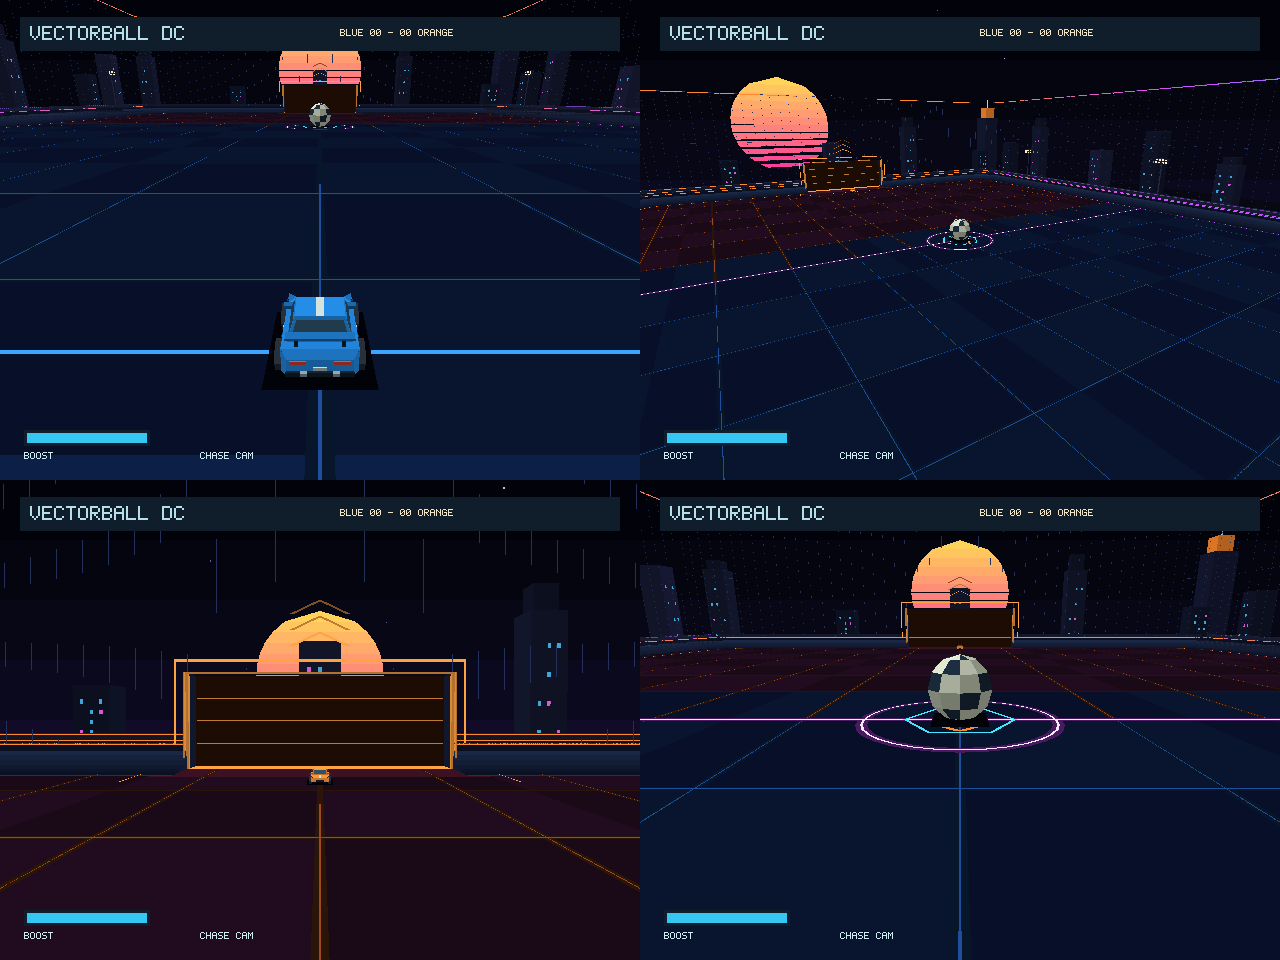
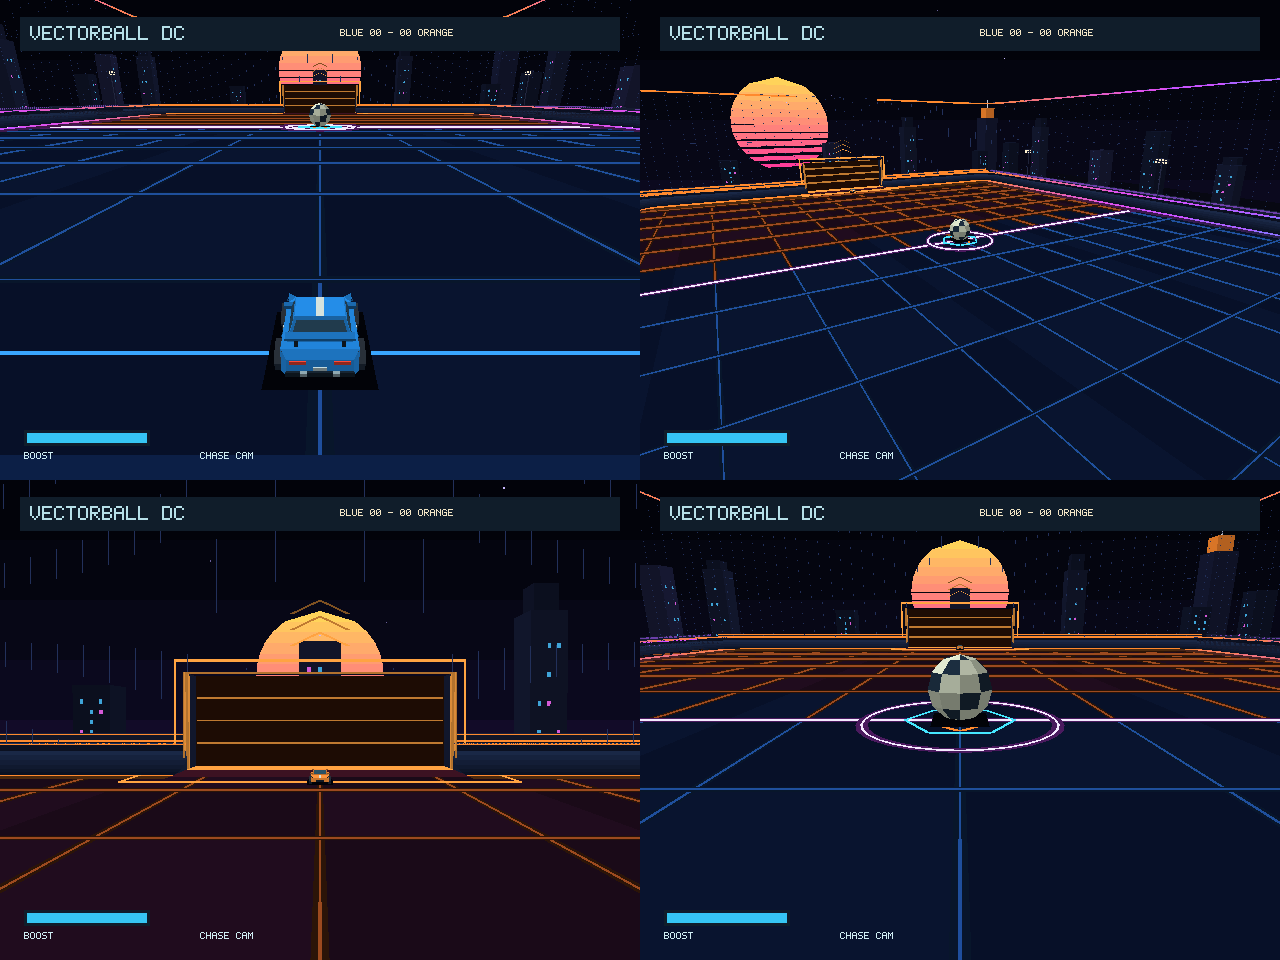
Handoff for the neon arena and next arena themes; add line-width, versus-hash and arena-preview checks
Claude-Session: https://claude.ai/code/session_01BxpQXHpdUiRQkvTyAn2ubh

diff --git a/tests/arena_views.c b/tests/arena_views.c
@@ -1,0 +1,28 @@
+/* Arena preview renders through the real renderer, with a reference rasteriser
+   that honours the depth-ALWAYS floor-marking pass like the PVR does.
+   Usage: arena_views <output dir>  -> kickoff/overview/goal/side/center/low/split .ppm
+   Host software output only: no anti-aliasing, not Dreamcast colours/filtering or FPS. */
+#define main reference_snapshot_main
+#define ARENA_VIEWS_DEPTH_ALWAYS
+#include "snapshot.c"
+#undef main
+#include "match.h"
+static void save(const char *path){FILE *f=fopen(path,"wb");fprintf(f,"P6\n640 480\n255\n");fwrite(rgb,1,sizeof(rgb),f);fclose(f);}
+static void clear(void){int x,y;for(y=0;y<480;y++)for(x=0;x<640;x++){rgb[y][x][0]=6;rgb[y][x][1]=9;rgb[y][x][2]=19;depth[y][x]=0;}count=0;}
+static void look(Camera *c,Vec3 eye,Vec3 at){c->eye=eye;c->forward=unit((Vec3){at.x-eye.x,at.y-eye.y,at.z-eye.z});c->right=unit((Vec3){c->forward.z,0,-c->forward.x});
+    c->up=(Vec3){c->forward.y*c->right.z,-c->forward.x*c->right.z+c->forward.z*c->right.x,-c->forward.y*c->right.x};c->initialized=1;c->focal=390;}
+int main(int argc,char **argv){
+    Game g;Camera cam={0};char path[512];const char *dir=argv[1];
+    game_init(&g);
+    clear();camera_update(&cam,&g,0,0,1);render_frame(&g,&cam,0,0);snprintf(path,512,"%s/kickoff.ppm",dir);save(path);fprintf(stderr,"kickoff %d\n",count);
+    clear();look(&cam,(Vec3){-62,34,-100},(Vec3){0,0,0});render_frame(&g,&cam,0,0);snprintf(path,512,"%s/overview.ppm",dir);save(path);fprintf(stderr,"overview %d\n",count);
+    clear();look(&cam,(Vec3){0,9,60},(Vec3){0,8,ARENA_Z});render_frame(&g,&cam,0,0);snprintf(path,512,"%s/goal.ppm",dir);save(path);fprintf(stderr,"goal %d\n",count);
+    clear();look(&cam,(Vec3){-20,6,-20},(Vec3){ARENA_X,4,30});render_frame(&g,&cam,0,0);snprintf(path,512,"%s/side.ppm",dir);save(path);fprintf(stderr,"side %d\n",count);
+    clear();look(&cam,(Vec3){0,10,-40},(Vec3){0,0,0});render_frame(&g,&cam,0,0);snprintf(path,512,"%s/center.ppm",dir);save(path);fprintf(stderr,"center %d\n",count);
+    {Game h;game_init(&h);h.car=(Vec3){ARENA_X-14,0,-ARENA_Z*.5f};h.heading=.6f;h.cpu=(Vec3){ARENA_X-24,0,-ARENA_Z*.5f+6};h.ball=(Vec3){ARENA_X-9,BALL_R,-ARENA_Z*.5f+9};
+     clear();look(&cam,(Vec3){ARENA_X-30,2.2f,-ARENA_Z*.5f-14},(Vec3){ARENA_X-8,1,-ARENA_Z*.5f+6});render_frame(&h,&cam,0,0);snprintf(path,512,"%s/low.ppm",dir);save(path);fprintf(stderr,"low %d\n",count);}
+    {Match m;Camera cams[2]={0};int modes[2]={0,0};match_init(&m);game_init(&g);
+     camera_update_player(&cams[0],&g,0,0,STEP,1);camera_update_player(&cams[1],&g,1,0,STEP,1);
+     clear();render_split_frame(&g,cams,&m,modes,0,0);snprintf(path,512,"%s/split.ppm",dir);save(path);fprintf(stderr,"split %d\n",count);}
+    (void)argc;return 0;
+}

diff --git a/tests/neon_width_test.c b/tests/neon_width_test.c
@@ -1,0 +1,31 @@
+/* Neon arena: thin lines must stay visible at any distance. The PVR has no
+   anti-aliasing, so a strip thinner than a pixel blinks in and out. Over many
+   cameras, every distance-widened strip piece must be >=1.2 px thick at its
+   middle (target 1.6 px at its ends). Build with -DNEON_WIDTH_CHECK. */
+#include "render.h"
+#include <stdio.h>
+#include <math.h>
+#include <assert.h>
+static int checked,thin;static float thinnest=1e9f;
+void backend_triangle(Screen a,Screen b,Screen c,uint32_t col){(void)a;(void)b;(void)c;(void)col;}
+void neon_width_check(float depth,float needed,float drawn,float base){
+    float px;
+    if(depth<=1||needed<=base*1.01f)return;   /* near plane, or design width already enough */
+    px=1.6f*drawn/needed;checked++;if(px<thinnest)thinnest=px;if(px<1.2f)thin++;
+}
+static Vec3 unit(Vec3 a){float l=sqrtf(a.x*a.x+a.y*a.y+a.z*a.z);return (Vec3){a.x/l,a.y/l,a.z/l};}
+int main(void){
+    Game g;Camera c={0};int i;game_init(&g);
+    for(i=0;i<2000;i++){
+        float ang=i*.37f,rad=5+(i%11)*9.0f;
+        c.eye=(Vec3){sinf(ang)*rad*.85f,1.2f+(i%7)*3.5f,cosf(ang)*rad*1.1f};
+        c.forward=unit((Vec3){-sinf(ang*1.7f)*40-c.eye.x*.2f,-c.eye.y*(.2f+(i%3)*.3f),-cosf(ang*1.7f)*40-c.eye.z*.2f});
+        c.right=unit((Vec3){c.forward.z,0,-c.forward.x});
+        c.up=(Vec3){c.forward.y*c.right.z,-c.forward.x*c.right.z+c.forward.z*c.right.x,-c.forward.y*c.right.x};
+        c.initialized=1;c.focal=390;
+        render_frame(&g,&c,0,0);
+    }
+    assert(checked>100000&&thin==0&&thinnest>=1.2f);
+    printf("PASS: neon line width, %d widened pieces over 2000 cameras, thinnest %.2f px at mid-piece\n",checked,thinnest);
+    return 0;
+}

diff --git a/tests/versus_hash.c b/tests/versus_hash.c
@@ -1,0 +1,25 @@
+/* Versus must stay exactly as accepted (34-39 FPS on hardware). Prints a hash of
+   every triangle (screen position, depth, colour) the split renderer submits over
+   varied layouts. Compare against the value recorded in HANDOFF.md, or against a
+   build of the previous render.c, after any render change. Also fails if any
+   versus triangle uses the single-screen depth-ALWAYS marking pass. */
+#include "render.h"
+#include <stdio.h>
+static unsigned long long h=1469598103934665603ULL;static unsigned n,flagged;
+static void mixb(const void *p,size_t k){const unsigned char *b=p;while(k--){h^=*b++;h*=1099511628211ULL;}}
+void backend_triangle(Screen a,Screen b,Screen c,uint32_t col){if(render_depth_always)flagged++;mixb(&a,sizeof a);mixb(&b,sizeof b);mixb(&c,sizeof c);mixb(&col,sizeof col);n++;}
+int main(void){
+    Game g;Match m;Camera cams[2]={0};int modes[2]={0},i;
+    game_init(&g);match_init(&m);
+    for(i=0;i<400;i++){
+        int s=i%8;
+        g.car=(Vec3){s==1?ARENA_X-10:(s-4)*9.0f,s==2?12:0,s==3?ARENA_Z-14:-SPAWN_Z+s*20};g.heading=s*.8f;
+        g.cpu=(Vec3){s==1?-ARENA_X+10:4-s*7.0f,s==5?8:0,SPAWN_Z-s*15};g.cpu_heading=3.14159265f-s*.5f;
+        g.ball=(Vec3){s*5.0f-15,s==2?24:BALL_R,(s-3)*12.0f};modes[0]=s%2;modes[1]=(s/2)%2;
+        camera_update_player(&cams[0],&g,0,modes[0],STEP,1);camera_update_player(&cams[1],&g,1,modes[1],STEP,1);
+        render_split_frame(&g,cams,&m,modes,0,0);render_split_fps(37);
+        if(s==6)render_split_frame(&g,cams,&m,modes,1,0);
+    }
+    printf("versus: %u triangles, hash %016llx, depth-always %u\n",n,h,flagged);
+    return flagged?1:0;
+}

diff --git a/src/render.c b/src/render.c
@@ -214,6 +214,10 @@ static float neon_width(Vec3 p,Vec3 t,Vec3 n,float base){
    its ends give (up to three levels, so extra pieces appear only near the
    camera). An optional dim halo (at least 2.4x the core) is drawn first. */
 #define NEON_MAX_PIECES 48
+#ifdef NEON_WIDTH_CHECK
+/* Host-only hook (tests/neon_width_test.c): view depth, needed and drawn width at each piece's middle. */
+void neon_width_check(float depth,float needed,float drawn,float base);
+#endif
 static void neon_strip(Vec3 a,Vec3 b,Vec3 n,float base,int centred,int pieces,uint32_t col,float halo_base,uint32_t halo_col){
     Vec3 pt[NEON_MAX_PIECES+1];float w[NEON_MAX_PIECES+1];unsigned char level[NEON_MAX_PIECES+1];int count=0,j,pass;
     Vec3 t=norm(sub(b,a));
@@ -229,6 +233,9 @@ static void neon_strip(Vec3 a,Vec3 b,Vec3 n,float base,int centred,int pieces,ui
     }
     for(pass=halo_base>0?0:1;pass<2;pass++)for(j=0;j+1<count;j++){
         float w0=w[j],w1=w[j+1];
+#ifdef NEON_WIDTH_CHECK
+        if(pass)neon_width_check(view(mul(add(pt[j],pt[j+1]),.5f)).z,neon_width(mul(add(pt[j],pt[j+1]),.5f),t,n,base),(w0+w1)*.5f,base);
+#endif
         if(!pass){w0=fmaxf(halo_base,w0*2.4f);w1=fmaxf(halo_base,w1*2.4f);}
         {float lo0=centred?-w0*.5f:0,hi0=centred?w0*.5f:w0,lo1=centred?-w1*.5f:0,hi1=centred?w1*.5f:w1;
             quad(add(pt[j],mul(n,lo0)),add(pt[j+1],mul(n,lo1)),add(pt[j+1],mul(n,hi1)),add(pt[j],mul(n,hi0)),pass?col:halo_col);}

diff --git a/tests/snapshot.c b/tests/snapshot.c
@@ -30,7 +30,11 @@ void backend_triangle(Screen a,Screen b,Screen c,uint32_t col){
     for(y=y0;y<=y1;y++)for(x=x0;x<=x1;x++){
         float u=edge(b,c,x+.5f,y+.5f)/area,w=edge(a,b,x+.5f,y+.5f)/area,t=1-u-w;
         float z=u*a.z+t*b.z+w*c.z;
+#ifdef ARENA_VIEWS_DEPTH_ALWAYS
+        if(u>=0&&t>=0&&w>=0&&(render_depth_always||z>=depth[y][x])){ /* PVR depth-ALWAYS marking pass */
+#else
         if(u>=0&&t>=0&&w>=0&&z>=depth[y][x]){
+#endif
             depth[y][x]=z;rgb[y][x][0]=(col>>16)&255;rgb[y][x][1]=(col>>8)&255;rgb[y][x][2]=col&255;
         }
     }

diff --git a/HANDOFF.md b/HANDOFF.md
@@ -1,47 +1,71 @@
-# Resume here — neon line dropout fix, October 23, 2026
+# Resume here — neon vector arena accepted on hardware; next: more arena themes (October 23, 2026)
 
-After the depth-ALWAYS fix the user still saw lines blink: distant lines invisible until they drove closer, then on/off (hardware screenshots show dotted far lines). Not z-fighting this time: the lines were 0.10–0.35 units wide, i.e. thinner than a pixel at distance, and the PVR (no anti-aliasing) only fills pixels whose centres a triangle covers, so sub-pixel strips drop in and out as the camera moves.
+## Status
 
-- `neon_width(p,t,n,base)` returns the width needed for the strip to be NEON_MIN_PIXELS (1.6) thick on screen: it projects p, p+n*e and p+t*e and measures the across-strip pixel distance perpendicular to the strip's own screen direction (a 3D angle estimate was tried first and gave only 1.0 px off-centre). Never below the design width; capped at NEON_MAX_WIDTH 6.
-- `neon_strip()` draws a line as tapered pieces with per-end widths, adaptively halving any piece whose midpoint needs >12% more width than its ends give (max 3 levels, max 48 pieces). `neon_ring()` does the same for the centre ring. Halo = max(design halo, 2.4x core).
-- Applied to everything thin in the single-screen dress: grid, midfield line, centre ring and hexagon, goal-area lines and goal lines, bank toe lines, wall neon band and top rail, net slats, end-wall goal frames, terrace lips. Chevrons and filled shapes were already wide enough.
-- Check (scratch harness, render.c instrumented): 2,000 random cameras, 290,274 widened pieces; thinnest mid-piece 1.22 px, none below 1.2 px. Before adaptive splitting 0.30% fell below 1.2 px (thinnest 0.81).
-- Triangles: single-screen kickoff 5911 (was 5649 with fixed-width lines; original grass arena 5016), 702 in the depth-ALWAYS run; corner snapshot 2666. Versus hash fixture unchanged (1,341,200 triangles, same hash, 0 flagged). Full suite 33 PASS.
-- Hardware confirmation pending.
+- Branch `neon-arena` (pushed to origin). Not merged into `main` yet: merge it, or keep working on it, at the start of the next session (ask the user). `main` = v0.32 wall-slide build.
+- **Accepted on real hardware** by the user: "looks great now, works nice on real hardware too. Didn't notice any fps [drop]" (single screen). Versus was deliberately left untouched (see constraints).
+- Render-only work: `src/render.c` (plus a small header switch in `src/main.c`). No gameplay, physics, collision, camera, HUD, menu or audio changes.
 
----
+## Next: more arena themes (user wants these in the next chat)
 
-# Resume here — neon arena floor-line flicker fix, October 23, 2026
+The user picked "Neon vector arena" from three proposed looks and now wants the other two as well:
 
-User built the neon-arena branch and likes the arena, but the floor lines flickered quite a bit on hardware (z-fighting: strips only .018–.06 above the floor, reciprocal depth at grazing distance). Fix by draw order rather than larger height offsets:
+1. **Night stadium**: keep a grass pitch but make it a big event: striped mowing, team-coloured ends, LED ad boards along the walls, crowd stands with lights, light towers.
+2. **Futuristic outdoor**: daytime or sunset sky, a rooftop arena over a city or a desert with mountains, metal wall panels and painted markings.
 
-- Single screen only: straight after the floor tiles, every floor marking (grid, goal-area tints and outlines, goal lines, midfield line, centre ring/hexagon/chevrons, bank toe lines, car/ball shadows) is drawn in one run with `render_depth_always=1`. Then banks, walls, goals, cars, ball and effects draw with the normal header and still depth-test against the markings, so they cover them.
-- `main.c` compiles a second opaque header (`decal_header`, `PVR_DEPTHCMP_ALWAYS`, depth write on) and `backend_triangle` switches headers only when the flag changes (resets to the normal header each frame). Same OP list, so no extra list or bin config. The opaque list is processed in submission order, so depth-ALWAYS markings simply paint over the tiles.
-- Safe because the camera stays inside the convex arena footprint: no environment geometry drawn before the floor can sit in front of a floor marking. The goal floor rect inside each goal stays in the normal pass (nothing beneath it to fight).
-- Versus: flag never set; the 400-frame split hash fixture still gives 1,341,200 triangles, identical hash, 0 flagged triangles. Host test stubs gained `render_depth_always` (three loop tests that replace render.c) and `depth`/`PVR_DEPTHCMP_ALWAYS` in tests/title_stubs/dc/pvr.h. Full suite passes (33 PASS lines); kickoff 5649 triangles, 538 of them in the depth-always run.
-- Host renders with a reference rasteriser that honours depth-ALWAYS for flagged triangles show correct layering (cars/ball/banks/goals over markings). Hardware confirmation of the flicker fix still needed.
+Questions to settle with the user before or while building (ask; do not assume):
+- How an arena is chosen: a menu option before a match, rotating per match, random, or per mode. Keep menus clear and short (AGENTS.md).
+- Whether the original plain grass arena stays as an option.
+- Whether versus gets a theme at all. Default: **no**. Versus keeps the exact accepted arena unless the user explicitly asks; any versus change must keep the split triangle count at or below today's.
 
----
+Suggested structure: pull the single-screen dress into a theme layer, e.g. an `ArenaTheme` struct (sky gradient, pitch colours, bank colours, accent/neon colours, environment and decoration callbacks), selected by a value carried from the frontend (store it outside `Game` if possible, so `Game` layout and gameplay comparisons stay unchanged). Keep the shared arena geometry (`arena_edge`, `arena_bank_vertex`, goals) and only vary colours and decorations. Build one theme at a time and show the user host previews (`tests/arena_views.c`) before a hardware build.
 
-# Resume here — neon vector arena (single screen), October 23, 2026
+## Constraints (keep)
 
-User asked to spice up the generic test arena and chose a "neon vector arena" look. Mid-task they added: **leave the versus (split-screen) arena as is — it runs 34–39 FPS on hardware.** So every change is single-screen only (`viewport_height==480`); split views take the exact previous code paths and colours.
+- **Versus/split screen must stay as is**: it runs 34–39 FPS on hardware. Every neon change is inside `viewport_height==480` branches; split views take the previous code paths, colours and submission order. Check with `tests/versus_hash.c`: it must print `1341200 triangles, hash 4feeeda6e297f213, depth-always 0` (host gcc; if the toolchain differs, compare against a build of the previous `render.c` instead).
+- One opaque PVR list, flat vertex colours, no textures, no translucency. Glow = bright thin core strip over a wider dim halo strip.
+- Single-screen budget: kickoff snapshot was 5016 triangles (grass) and is 5911 now; the user saw no FPS drop at 5911. Report the count for any new theme; keep new themes in the same range.
+- Draw floor markings in the depth-ALWAYS pass (below) and thin lines with `neon_strip()` (below), or they will flicker on hardware.
 
-Render-only change in `src/render.c`; no gameplay, physics, collision, camera or HUD changes. Still one opaque PVR list, flat colours, no textures or translucency. Glow is faked with a bright thin core strip over a wider dim halo strip.
+## What the neon arena contains (single screen)
 
-- Pitch: dark team-tinted halves (navy at the blue end, -z; plum at the orange end, +z) on the same 8x14 tiles.
-- Glowing vector grid: 11 long lines (blue/orange per half) and 13 cross lines, core plus halo.
-- Midfield line and centre emblem: white core over a purple halo, a glowing ring, a cyan hexagon and two team chevrons pointing at the goal each team attacks.
-- Banks: dark steel, lighter towards the lip. A neon toe line where pitch meets bank, a neon band on the wall above the lip and a neon top rail. Long edges are split so the colour runs blue -> magenta -> orange along the arena (`neon_at(z)`). Fence wires recoloured.
-- Goals: darker team-tinted nets with three glowing slats, team-coloured goal-area outlines, and a big neon frame with three stacked chevrons on the end wall just outside the playing surface (z = ±(ARENA_Z+.45), behind the bank).
-- Sky and city: purple horizon gradient, a striped synthwave sun low behind the orange end (replaces the moon), darker buildings with magenta/cyan windows, neon lips on the terraces, team-coloured spire tops. Car/ball floor shadows darker to suit the dark pitch.
+- Pitch: dark team-tinted halves (navy at the blue end, -z; plum at the orange end, +z) on the same 8x14 tiles; glowing grid (11 long, 13 cross lines, blue/orange per half).
+- Midfield line (white core, purple halo), centre ring, cyan hexagon, two team chevrons pointing at the goal each team attacks.
+- Banks: dark steel, lighter towards the lip. Neon toe line where the pitch meets each bank, neon band on the wall above the lip, neon top rail; colour runs blue -> magenta -> orange along the arena (`neon_at(z)`); fence wires recoloured.
+- Goals: darker team-tinted nets with three glowing slats, team-coloured goal-area lines and goal lines, big neon frame with three stacked chevrons on the end wall just outside the playing surface (z = +/-(ARENA_Z+.45)).
+- Sky/city: purple horizon gradient, striped synthwave sun low behind the orange end (replaced the moon), darker buildings with magenta/cyan windows, neon terrace lips, team-coloured spire tops, darker car/ball floor shadows.
+- `NEON_ARENA_PREVIEW.png`: host renders of the final version (kickoff, overview, goal, centre); regenerate with `tests/arena_views.c`.
 
-Host evidence (no Dreamcast compiler/emulator here; no hardware FPS claim):
-- Split screen unchanged: a 400-frame versus hash fixture (8 car/ball/camera layouts, pause overlay, FPS label) submits 1,341,200 triangles with an identical FNV-1a hash of every vertex and colour on the old (4ad39a2) and new render.c.
-- Full strict `tests/run.sh` passes (33 PASS lines, same as before). Single-screen kickoff snapshot 5016 -> 5649 triangles (+633, ~13%); corner snapshot 2534 -> 2654. Other single views: centre 3695 -> 4202, side 3634 -> 4162, goal 3155 -> 3448.
-- `NEON_ARENA_PREVIEW.png`: host software renders (kickoff, overview, goal, centre). Host rasteriser aliasing makes thin lines look dashed at a distance; hardware should draw them solid.
+## Problems found on hardware and how they were fixed
 
-Hardware test: single-player/CPU matches on GDEMU/Redream — check the look, readability of the ball and cars against the dark pitch, that no strips flicker against the floor (they sit .018–.06 above it), and single-screen FPS. Versus should look and run exactly as before.
+1. **Floor lines z-fighting (flicker).** Strips sat .018–.06 above the floor; at distance and grazing angles the reciprocal depth could not separate them, so they flickered (Redream and GDEMU). Raising them would make them float. Fix by draw order:
+   - Straight after the floor tiles, every floor marking (grid, goal tints, goal-area/goal lines, midfield, centre emblem, toe lines, car/ball shadows) is drawn with `render_depth_always=1`.
+   - `main.c` compiles a second opaque header `decal_header` (`PVR_DEPTHCMP_ALWAYS`, depth write on); `backend_triangle` switches headers only when the flag changes and resets to the normal header each frame. Same OP list (the PVR processes the opaque list in submission order), so markings paint over the tiles, and banks/goals/cars/ball drawn afterwards still depth-test over the markings.
+   - Safe because the camera stays inside the convex arena footprint, so nothing drawn before the floor (sky, city, stands) can be in front of a floor marking. The goal floor inside each goal stays in the normal pass (nothing below it to fight).
+   - `render_depth_always` is defined in `render.c`, declared in `render.h`; host backends ignore it. Three loop tests that replace render.c define it, and `tests/title_stubs/dc/pvr.h` gained `depth` and `PVR_DEPTHCMP_ALWAYS`.
+2. **Distant lines blinking in and out.** After fix 1, far lines were still dotted and popped on/off while driving. Cause: lines 0.10–0.35 units wide are thinner than a pixel at distance, and the PVR (no anti-aliasing) only fills pixels whose centres a triangle covers. Fix:
+   - `neon_width(p,t,n,base)` returns the width needed to be `NEON_MIN_PIXELS` (1.6) thick on screen. It projects p, p+n*e and p+t*e and measures the across-strip pixel distance perpendicular to the strip's own screen direction. A first version using the 3D angle to the view ray gave only 1.0 px off-centre (and still dropped out); the screen-space measure fixed that. Never below the design width; capped at `NEON_MAX_WIDTH` 6.
+   - `neon_strip(a,b,n,base,centred,pieces,col,halo_base,halo_col)` draws a line as tapered pieces with per-end widths and adaptively halves any piece whose midpoint needs >12% more width than its ends give (max 3 levels, max 48 pieces), so extra pieces appear only near the camera. `neon_ring()` does the same for the centre ring. Halo = max(design halo, 2.4x core).
+   - Used for every thin item: grid, midfield, ring, hexagon, goal-area/goal lines, toe lines, wall band, top rail, net slats, goal frames, terrace lips.
+   - Result: across 2000 random cameras no widened piece is under 1.2 px at its middle (thinnest 1.22). Adaptive splitting also cut triangles (6391 with fixed pieces -> 5911).
+
+## Lessons for future arena work
+
+- Anything flat on the floor: draw it in the depth-ALWAYS run right after the tiles, never as a raised coplanar strip.
+- Anything thinner than ~2 px at its farthest visible distance (lines, rails, trims, wires): use `neon_strip()`. Fixed thin quads will shimmer on hardware even if host renders look fine at a glance.
+- Large distant shapes (sun, buildings) are fine as plain quads.
+- Measure before claiming: the triangle-stream hash for versus, the width test for lines, triangle counts for budget.
+- Show the user host previews before a hardware build; it saved a round trip when picking colours (orange half changed from brown to plum).
+
+## Tools and checks added (all in `tests/run.sh`, which now prints 35 PASS lines)
+
+- `tests/neon_width_test.c` (build with `-DNEON_WIDTH_CHECK`; uses a small `#ifdef` hook in `neon_strip`): asserts the 1.2 px minimum over 2000 cameras.
+- `tests/versus_hash.c`: versus triangle-stream hash and depth-ALWAYS count (see constraints for the expected line).
+- `tests/arena_views.c`: writes kickoff/overview/goal/side/center/low/split PPMs to a folder, with a reference rasteriser that honours the depth-ALWAYS pass (`-DARENA_VIEWS_DEPTH_ALWAYS` path in `tests/snapshot.c`). Example:
+  `cc -std=c99 -O2 -Isrc -Itests src/game.c src/vehicle.c src/match.c src/render.c tests/arena_views.c -lm -o arena_views && ./arena_views out/` (convert PPM to PNG to view). Host output has no anti-aliasing and is not a Dreamcast FPS measure.
+- Snapshot counts now: kickoff 5911, corner 2666 triangles.
+
+Build is unchanged: `make clean`, `make gdemu` -> `gdemu/01/disc.cdi`. No ELF/CDI committed.
 
 ---
 
